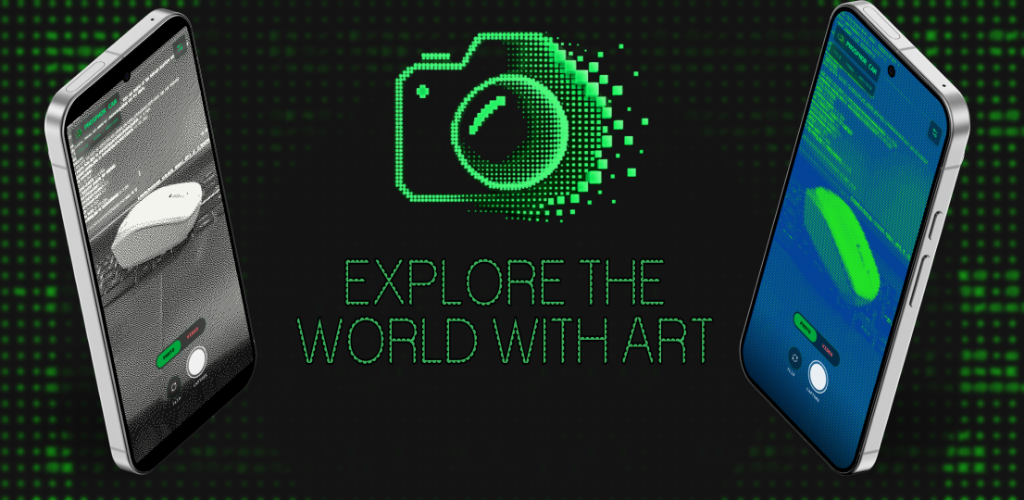
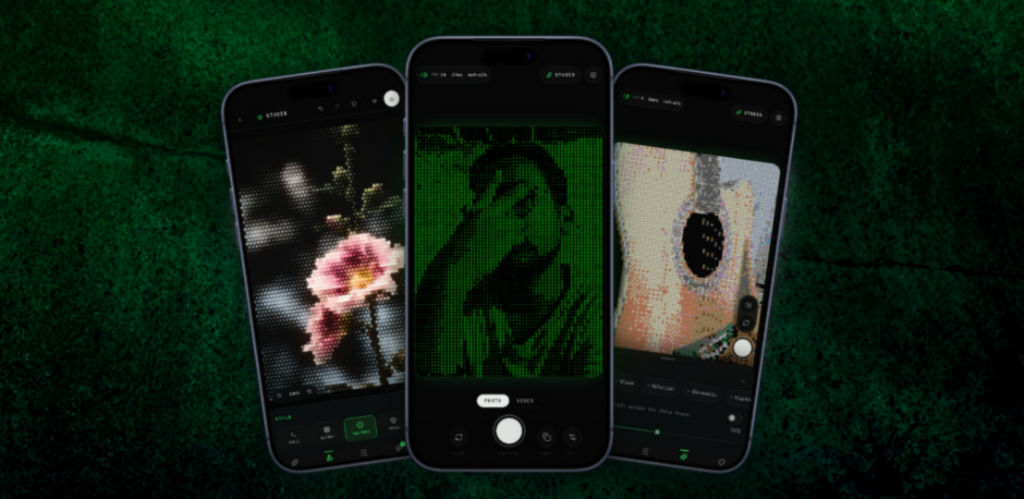
release: Phosphor Cam v1.4.0

diff --git a/src/features/cam/constants/version.ts b/src/features/cam/constants/version.ts
@@ -1,1 +1,1 @@
-export const VERSION = "v1.3.0";
+export const VERSION = "v1.4.0";
